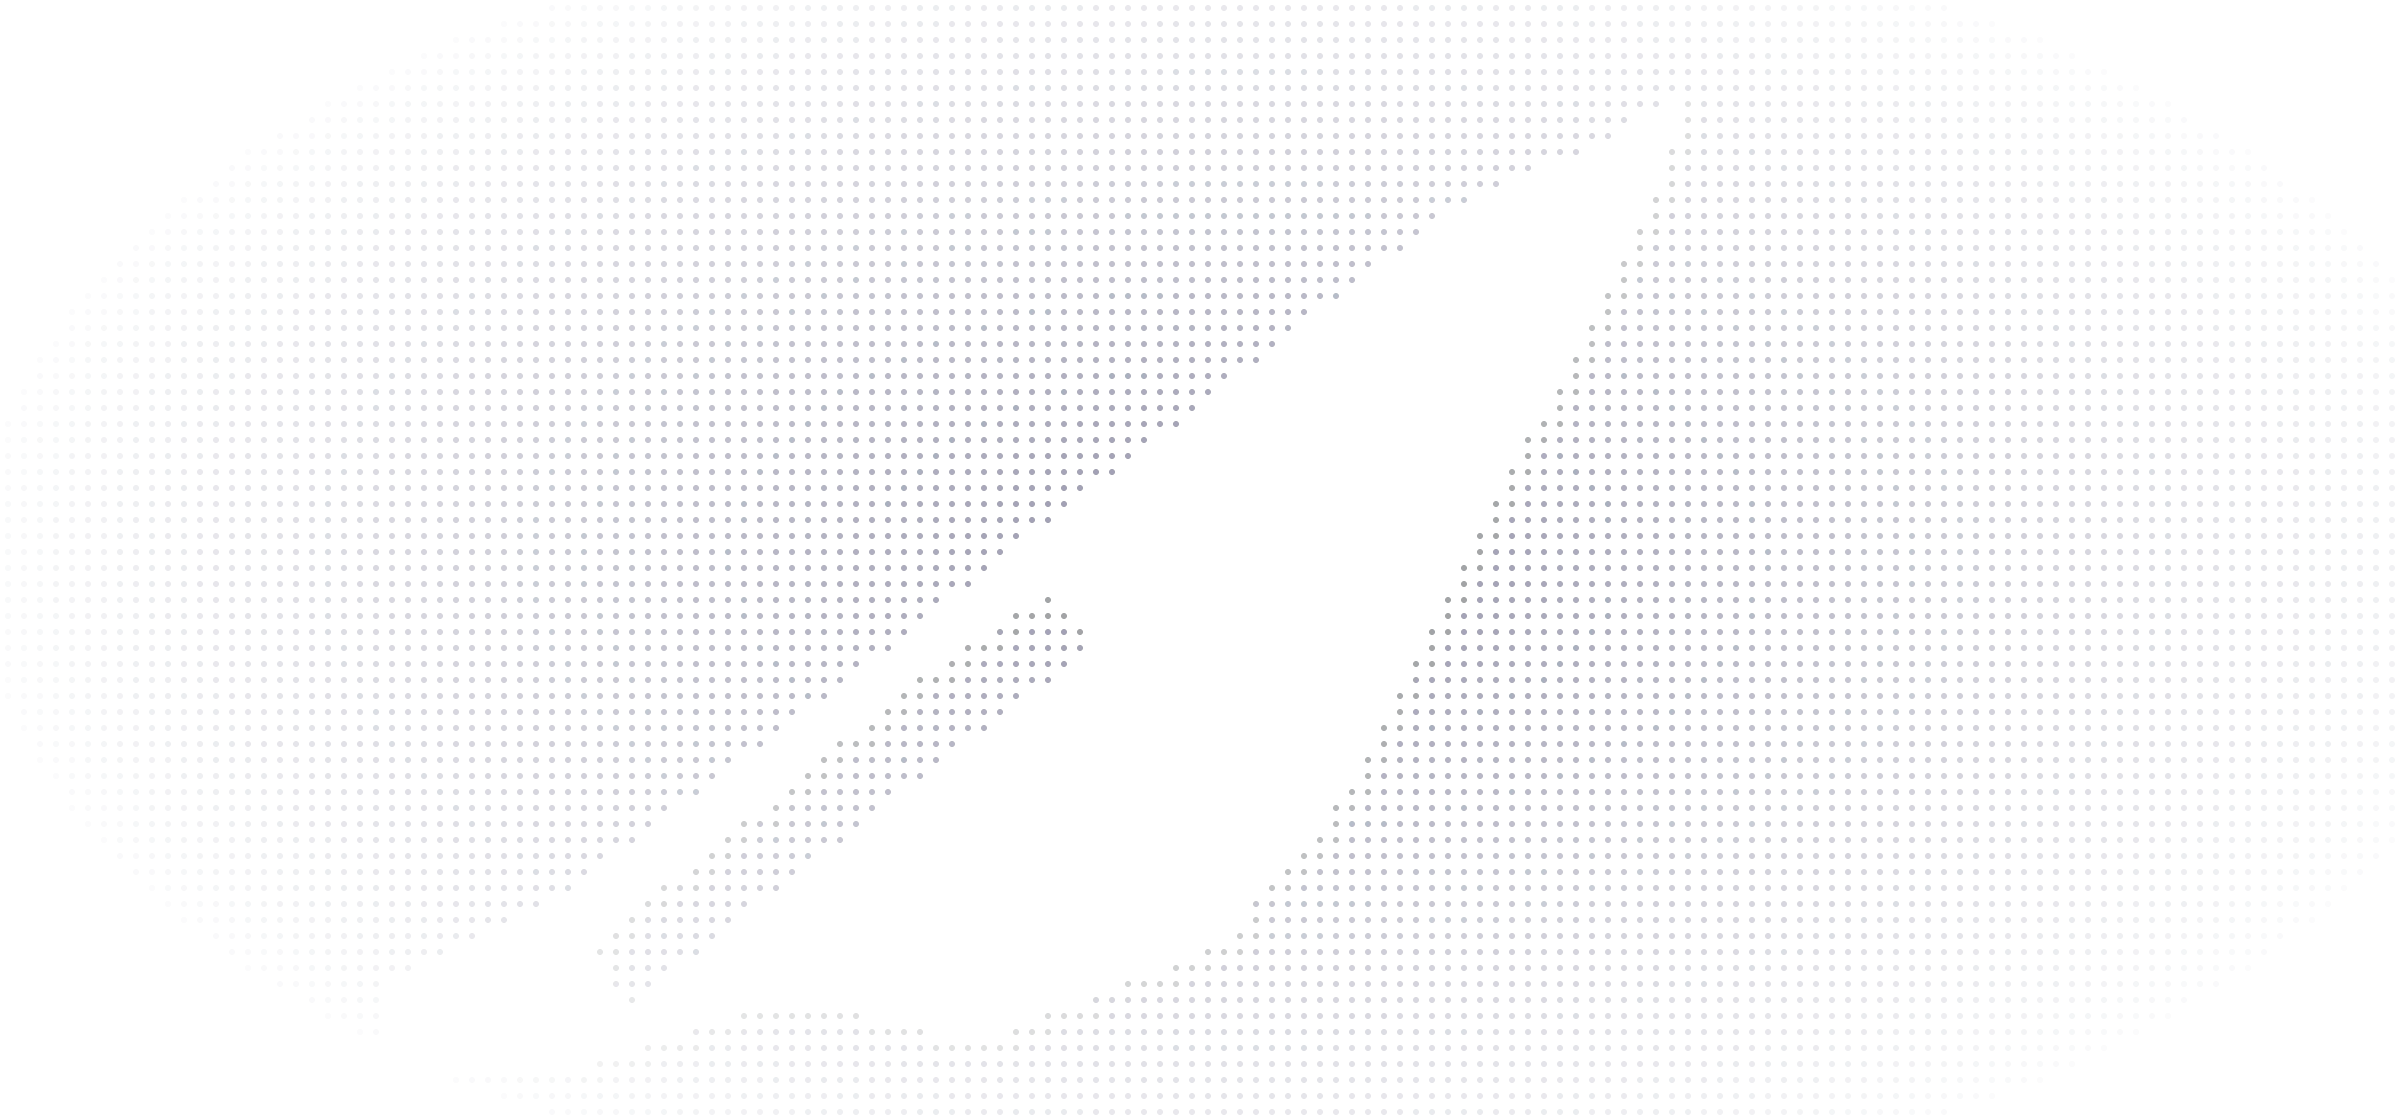
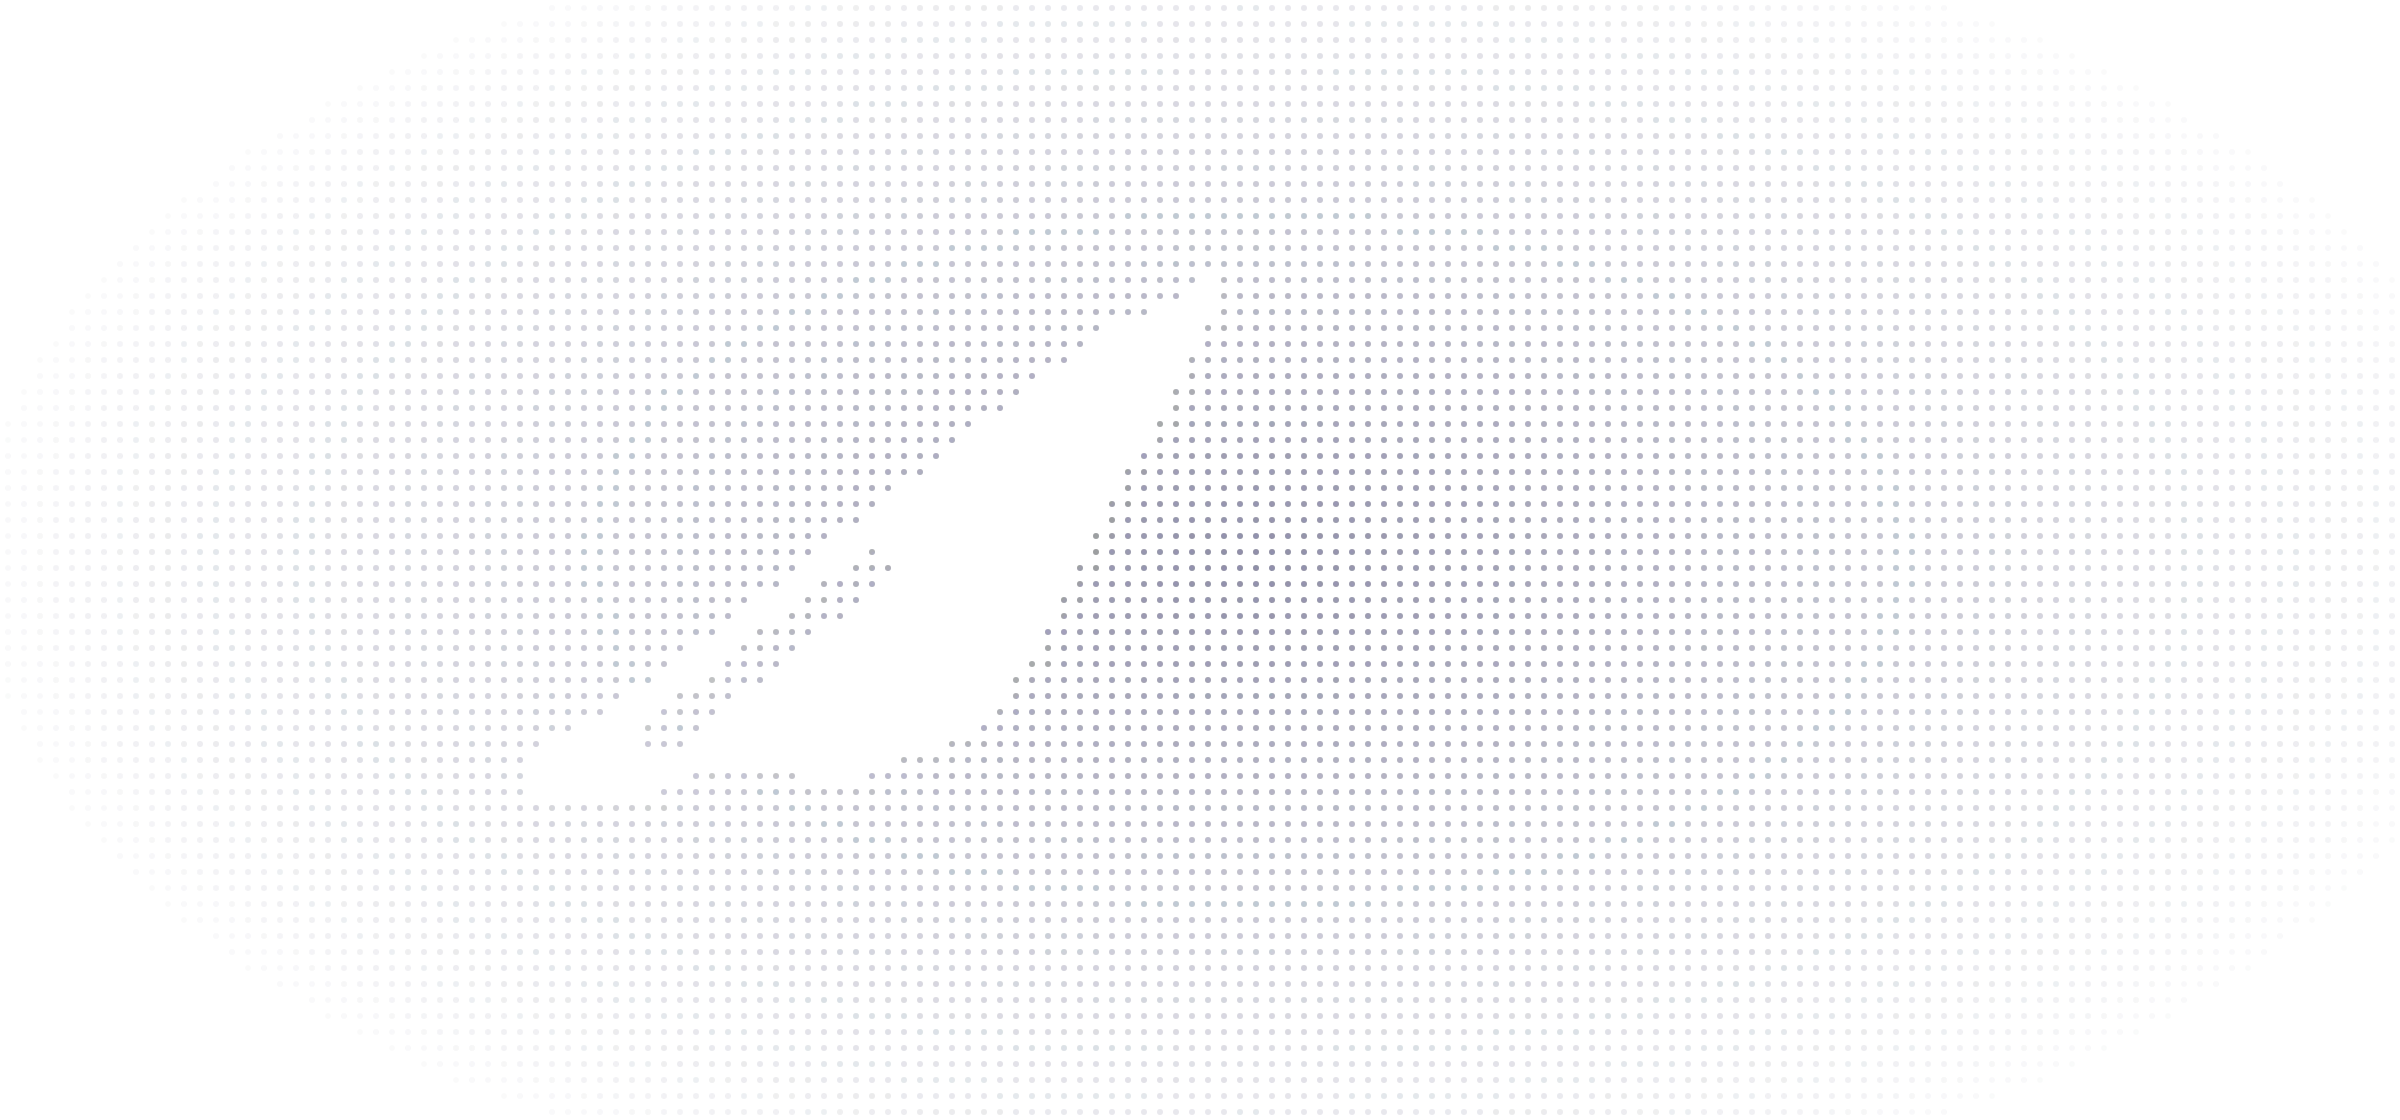
Seeland-Karte erweitert: Erlach, Ins, Aarberg, Lyss usw. erhalten Punkte
- Ausschnitt neu lon 6.94–7.54, lat 46.99–47.18 (massstabsgetreu wie bisher)
- scripts/seeland-map.mjs erzeugt das Kartenbild, Werte identisch mit KARTE
- Mobile-Ausschnitt verschoben, damit alle Orte sichtbar bleiben

diff --git a/index.html b/index.html
@@ -476,7 +476,7 @@ p{margin:0}
   .legal .tx{border-top:0;padding-top:12px;margin-bottom:12px}
   .form{padding:28px 20px}
   .cg{height:200vh}
-  .smap-in{width:170vw;margin-left:-51vw}
+  .smap-in{width:170vw;margin-left:-34vw}
   .loc{transform:translateX(calc(var(--fan,0) * 8vw))}
   .tip{width:min(62vw,260px);padding:10px}
   .tip img{aspect-ratio:16/9;margin-bottom:8px}
@@ -923,7 +923,8 @@ p{margin:0}
 var PROJECTS = [], TEAM = [];
 /* Koordinaten [lon, lat] pro Ort aus data/orte.json, neue Orte ergänzt die Action .github/workflows/geocode.yml */
 var ORTE = {};
-var KARTE = {lonMin:7.02, lonMax:7.34, latMin:47.04, latMax:47.142};
+/* Ausschnitt von assets/seeland-map.webp, erzeugt mit scripts/seeland-map.mjs (Werte dort identisch halten) */
+var KARTE = {lonMin:6.94, lonMax:7.54, latMin:46.99, latMax:47.18};
 
 (function(){
   var root = document.documentElement;
